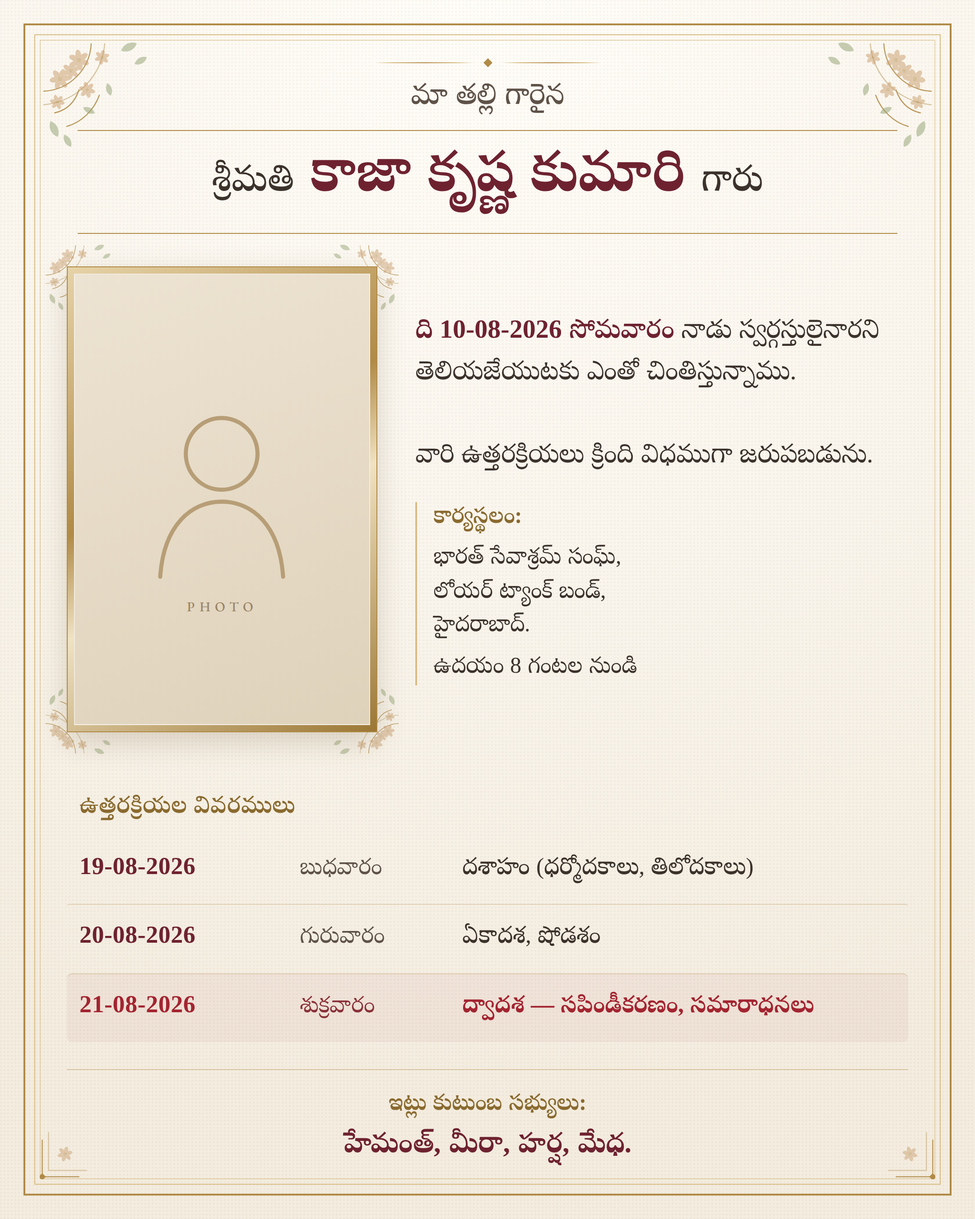
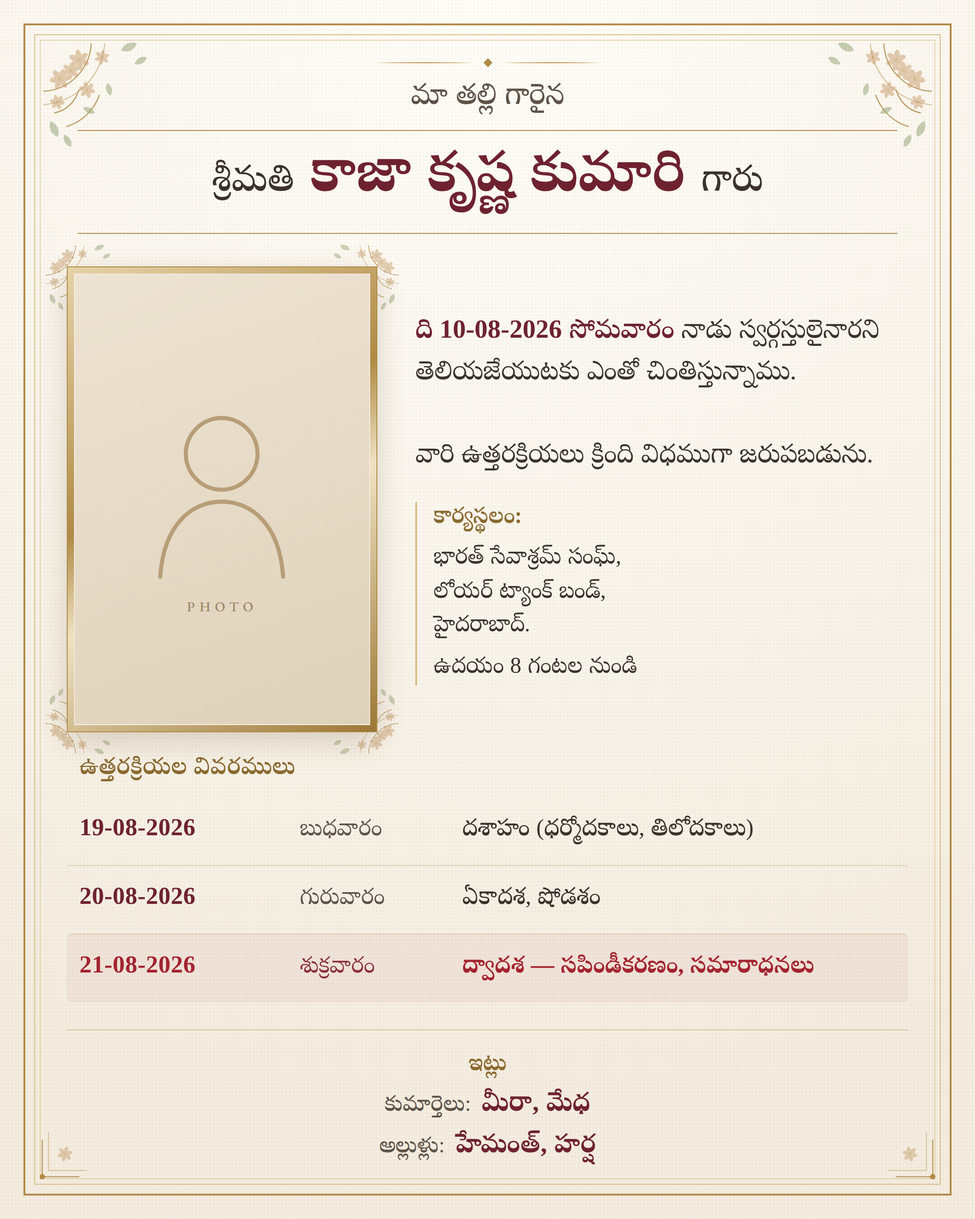
Name the family by relationship in the sign-off
Meera and Medha are daughters; Hemanth and Harsha are sons-in-law. The
sign-off now groups them by role over two lines instead of listing four names
flat, so the relationship to the deceased is legible.

Recovered the extra line's height from the gap below the portrait, keeping
both language variants within the card.

Claude-Session: https://claude.ai/code/session_01JVpFT1KiiQzTaMTwnEeLwV

Changed region(s): [[0.4653, 0.6533, 0.8375, 0.84], [0.062, 0.6222, 0.4032, 0.84], [0.3412, 0.8711, 0.6514, 0.9644]]

diff --git a/designs/memorial-invitation-kaza-krishna-kumari/design.js b/designs/memorial-invitation-kaza-krishna-kumari/design.js
@@ -17,9 +17,9 @@ const CONFIG = {
   venueEn: ['Venue:', 'Bharat Sevashram Sangha,', 'Lower Tank Bund,', 'Hyderabad.'],
   timeTe: 'ఉదయం 8 గంటల నుండి',
   timeEn: 'From 8:00 AM onwards',
-  fromTe: ['హేమంత్,', 'మీరా,', 'హర్ష,', 'మేధ.'],
-  fromEn: ['Hemanth,', 'Meera,', 'Harsha,', 'Medha.'],
-  fromLabelTe: 'ఇట్లు కుటుంబ సభ్యులు:',
+  fromGroupsTe: [['కుమార్తెలు', 'మీరా, మేధ'], ['అల్లుళ్లు', 'హేమంత్, హర్ష']],
+  fromGroupsEn: [['Daughters', 'Meera, Medha'], ['Sons-in-law', 'Hemanth, Harsha']],
+  fromLabelTe: 'ఇట్లు',
   fromLabelEn: 'With heavy hearts,',
   photo: null, // e.g. 'photo.jpg' placed next to this file
   // -----------------------------------------------------------------------
@@ -166,7 +166,7 @@ function invite(lang) {
     </div>`).join('');
 
   const venue = (te ? c.venueTe : c.venueEn);
-  const from = (te ? c.fromTe : c.fromEn);
+  const groups = (te ? c.fromGroupsTe : c.fromGroupsEn);
 
   return `<!doctype html><html><head><meta charset="utf-8"><style>
 ${FONTS}${BASE}${PHOTO_CSS}
@@ -189,7 +189,7 @@ ${FONTS}${BASE}${PHOTO_CSS}
 .nm{font:${te?`700 62px`:`700 66px`}/1.24 ${F};color:var(--maroon);letter-spacing:${te?'0':'.012em'}}
 .nm small{font-size:${te?'40px':'40px'};font-weight:${te?500:600};color:var(--ink);letter-spacing:${te?'0':'.06em'}}
 
-.mid{display:flex;align-items:stretch;gap:42px;margin:36px 0 34px;text-align:left}
+.mid{display:flex;align-items:stretch;gap:42px;margin:36px 0 24px;text-align:left}
 .midcol{display:flex;flex-direction:column;justify-content:center;gap:26px;flex:1}
 .venue{border-left:2px solid var(--gold-lt);padding-left:18px}
 .venue,.venue .time{font:${te?`400 25px`:`400 25px`}/1.5 ${FB};color:var(--ink)}
@@ -214,8 +214,13 @@ ${FONTS}${BASE}${PHOTO_CSS}
   border-top:1px solid rgba(176,138,70,.4);text-align:center}
 .lbl{font-family:${FB};font-weight:600;color:var(--gold-dk);display:block;
   margin-bottom:8px;letter-spacing:${te?'0':'.06em'};font-size:${te?'25px':'24px'}}
-.foot em{font-style:normal;font-weight:${te?700:600};color:var(--maroon);
-  font:${te?`700 31px`:`600 32px`}/1.4 ${F};letter-spacing:${te?'0':'.02em'}}
+.foot .grp{display:flex;align-items:baseline;justify-content:center;gap:12px;
+  margin-top:6px}
+.foot .role{font:${te?`500 24px`:`500 23px`}/1.4 ${FB};color:var(--ink-soft);
+  letter-spacing:${te?'0':'.04em'}}
+.foot .role::after{content:':'}
+.foot em{font-style:normal;color:var(--maroon);
+  font:${te?`700 29px`:`600 30px`}/1.4 ${F};letter-spacing:${te?'0':'.02em'}}
 .time{font:${te?`500 24px`:`500 23px`}/1.4 ${FB};color:var(--ink-soft);margin-top:8px}
 </style></head><body>
 <div class="card">
@@ -246,7 +251,8 @@ ${FONTS}${BASE}${PHOTO_CSS}
     </div>
     <div class="foot">
       <span class="lbl">${te ? c.fromLabelTe : c.fromLabelEn}</span>
-      <em>${from.join(' ')}</em>
+      ${groups.map(([role, names]) => `<div class="grp">
+        <span class="role">${role}</span><em>${names}</em></div>`).join('')}
     </div>
   </div>
 </div></body></html>`;

diff --git a/designs/memorial-invitation-kaza-krishna-kumari/invitation-telugu.html b/designs/memorial-invitation-kaza-krishna-kumari/invitation-telugu.html
@@ -67,7 +67,7 @@ body{background:#fff}
 .nm{font:700 62px/1.24 'NST',serif;color:var(--maroon);letter-spacing:0}
 .nm small{font-size:40px;font-weight:500;color:var(--ink);letter-spacing:0}
 
-.mid{display:flex;align-items:stretch;gap:42px;margin:36px 0 34px;text-align:left}
+.mid{display:flex;align-items:stretch;gap:42px;margin:36px 0 24px;text-align:left}
 .midcol{display:flex;flex-direction:column;justify-content:center;gap:26px;flex:1}
 .venue{border-left:2px solid var(--gold-lt);padding-left:18px}
 .venue,.venue .time{font:400 25px/1.5 'NST',serif;color:var(--ink)}
@@ -92,8 +92,13 @@ body{background:#fff}
   border-top:1px solid rgba(176,138,70,.4);text-align:center}
 .lbl{font-family:'NST',serif;font-weight:600;color:var(--gold-dk);display:block;
   margin-bottom:8px;letter-spacing:0;font-size:25px}
-.foot em{font-style:normal;font-weight:700;color:var(--maroon);
-  font:700 31px/1.4 'NST',serif;letter-spacing:0}
+.foot .grp{display:flex;align-items:baseline;justify-content:center;gap:12px;
+  margin-top:6px}
+.foot .role{font:500 24px/1.4 'NST',serif;color:var(--ink-soft);
+  letter-spacing:0}
+.foot .role::after{content:':'}
+.foot em{font-style:normal;color:var(--maroon);
+  font:700 29px/1.4 'NST',serif;letter-spacing:0}
 .time{font:500 24px/1.4 'NST',serif;color:var(--ink-soft);margin-top:8px}
 </style></head><body>
 <div class="card">
@@ -389,8 +394,10 @@ body{background:#fff}
     </div>
     </div>
     <div class="foot">
-      <span class="lbl">ఇట్లు కుటుంబ సభ్యులు:</span>
-      <em>హేమంత్, మీరా, హర్ష, మేధ.</em>
+      <span class="lbl">ఇట్లు</span>
+      <div class="grp">
+        <span class="role">కుమార్తెలు</span><em>మీరా, మేధ</em></div><div class="grp">
+        <span class="role">అల్లుళ్లు</span><em>హేమంత్, హర్ష</em></div>
     </div>
   </div>
 </div></body></html>

diff --git a/designs/memorial-invitation-kaza-krishna-kumari/invitation-english.html b/designs/memorial-invitation-kaza-krishna-kumari/invitation-english.html
@@ -67,7 +67,7 @@ body{background:#fff}
 .nm{font:700 66px/1.24 'Cormorant','EBG',serif;color:var(--maroon);letter-spacing:.012em}
 .nm small{font-size:40px;font-weight:600;color:var(--ink);letter-spacing:.06em}
 
-.mid{display:flex;align-items:stretch;gap:42px;margin:36px 0 34px;text-align:left}
+.mid{display:flex;align-items:stretch;gap:42px;margin:36px 0 24px;text-align:left}
 .midcol{display:flex;flex-direction:column;justify-content:center;gap:26px;flex:1}
 .venue{border-left:2px solid var(--gold-lt);padding-left:18px}
 .venue,.venue .time{font:400 25px/1.5 'EBG',serif;color:var(--ink)}
@@ -92,8 +92,13 @@ body{background:#fff}
   border-top:1px solid rgba(176,138,70,.4);text-align:center}
 .lbl{font-family:'EBG',serif;font-weight:600;color:var(--gold-dk);display:block;
   margin-bottom:8px;letter-spacing:.06em;font-size:24px}
-.foot em{font-style:normal;font-weight:600;color:var(--maroon);
-  font:600 32px/1.4 'Cormorant','EBG',serif;letter-spacing:.02em}
+.foot .grp{display:flex;align-items:baseline;justify-content:center;gap:12px;
+  margin-top:6px}
+.foot .role{font:500 23px/1.4 'EBG',serif;color:var(--ink-soft);
+  letter-spacing:.04em}
+.foot .role::after{content:':'}
+.foot em{font-style:normal;color:var(--maroon);
+  font:600 30px/1.4 'Cormorant','EBG',serif;letter-spacing:.02em}
 .time{font:500 23px/1.4 'EBG',serif;color:var(--ink-soft);margin-top:8px}
 </style></head><body>
 <div class="card">
@@ -390,7 +395,9 @@ body{background:#fff}
     </div>
     <div class="foot">
       <span class="lbl">With heavy hearts,</span>
-      <em>Hemanth, Meera, Harsha, Medha.</em>
+      <div class="grp">
+        <span class="role">Daughters</span><em>Meera, Medha</em></div><div class="grp">
+        <span class="role">Sons-in-law</span><em>Hemanth, Harsha</em></div>
     </div>
   </div>
 </div></body></html>

diff --git a/designs/memorial-invitation-kaza-krishna-kumari/README.md b/designs/memorial-invitation-kaza-krishna-kumari/README.md
@@ -42,7 +42,9 @@ placeholders or inferences and should be checked before sending:
 - **Time** — defaults to 8:00 AM.
 - **Date of passing** — 10 August 2026 is *derived*, not given: if 19 Aug is
   the 10th day and 21 Aug the 12th, day one falls on 10 Aug 2026 (Monday).
-- **Relationship** — defaults to "our beloved mother" / "మా తల్లి గారైన".
+- **Relationship** — the header reads "our beloved mother" / "మా తల్లి గారైన",
+  which is correct from the daughters. The sign-off names them by role:
+  daughters Meera and Medha, sons-in-law Hemanth and Harsha.
 - **Rite names** — the 20 Aug label follows the conventional sequence; only
   the 10th day (19 Aug) and 12th day (21 Aug) were specified. The card lists
   19-21 Aug; 18 Aug was dropped at the family's request.
